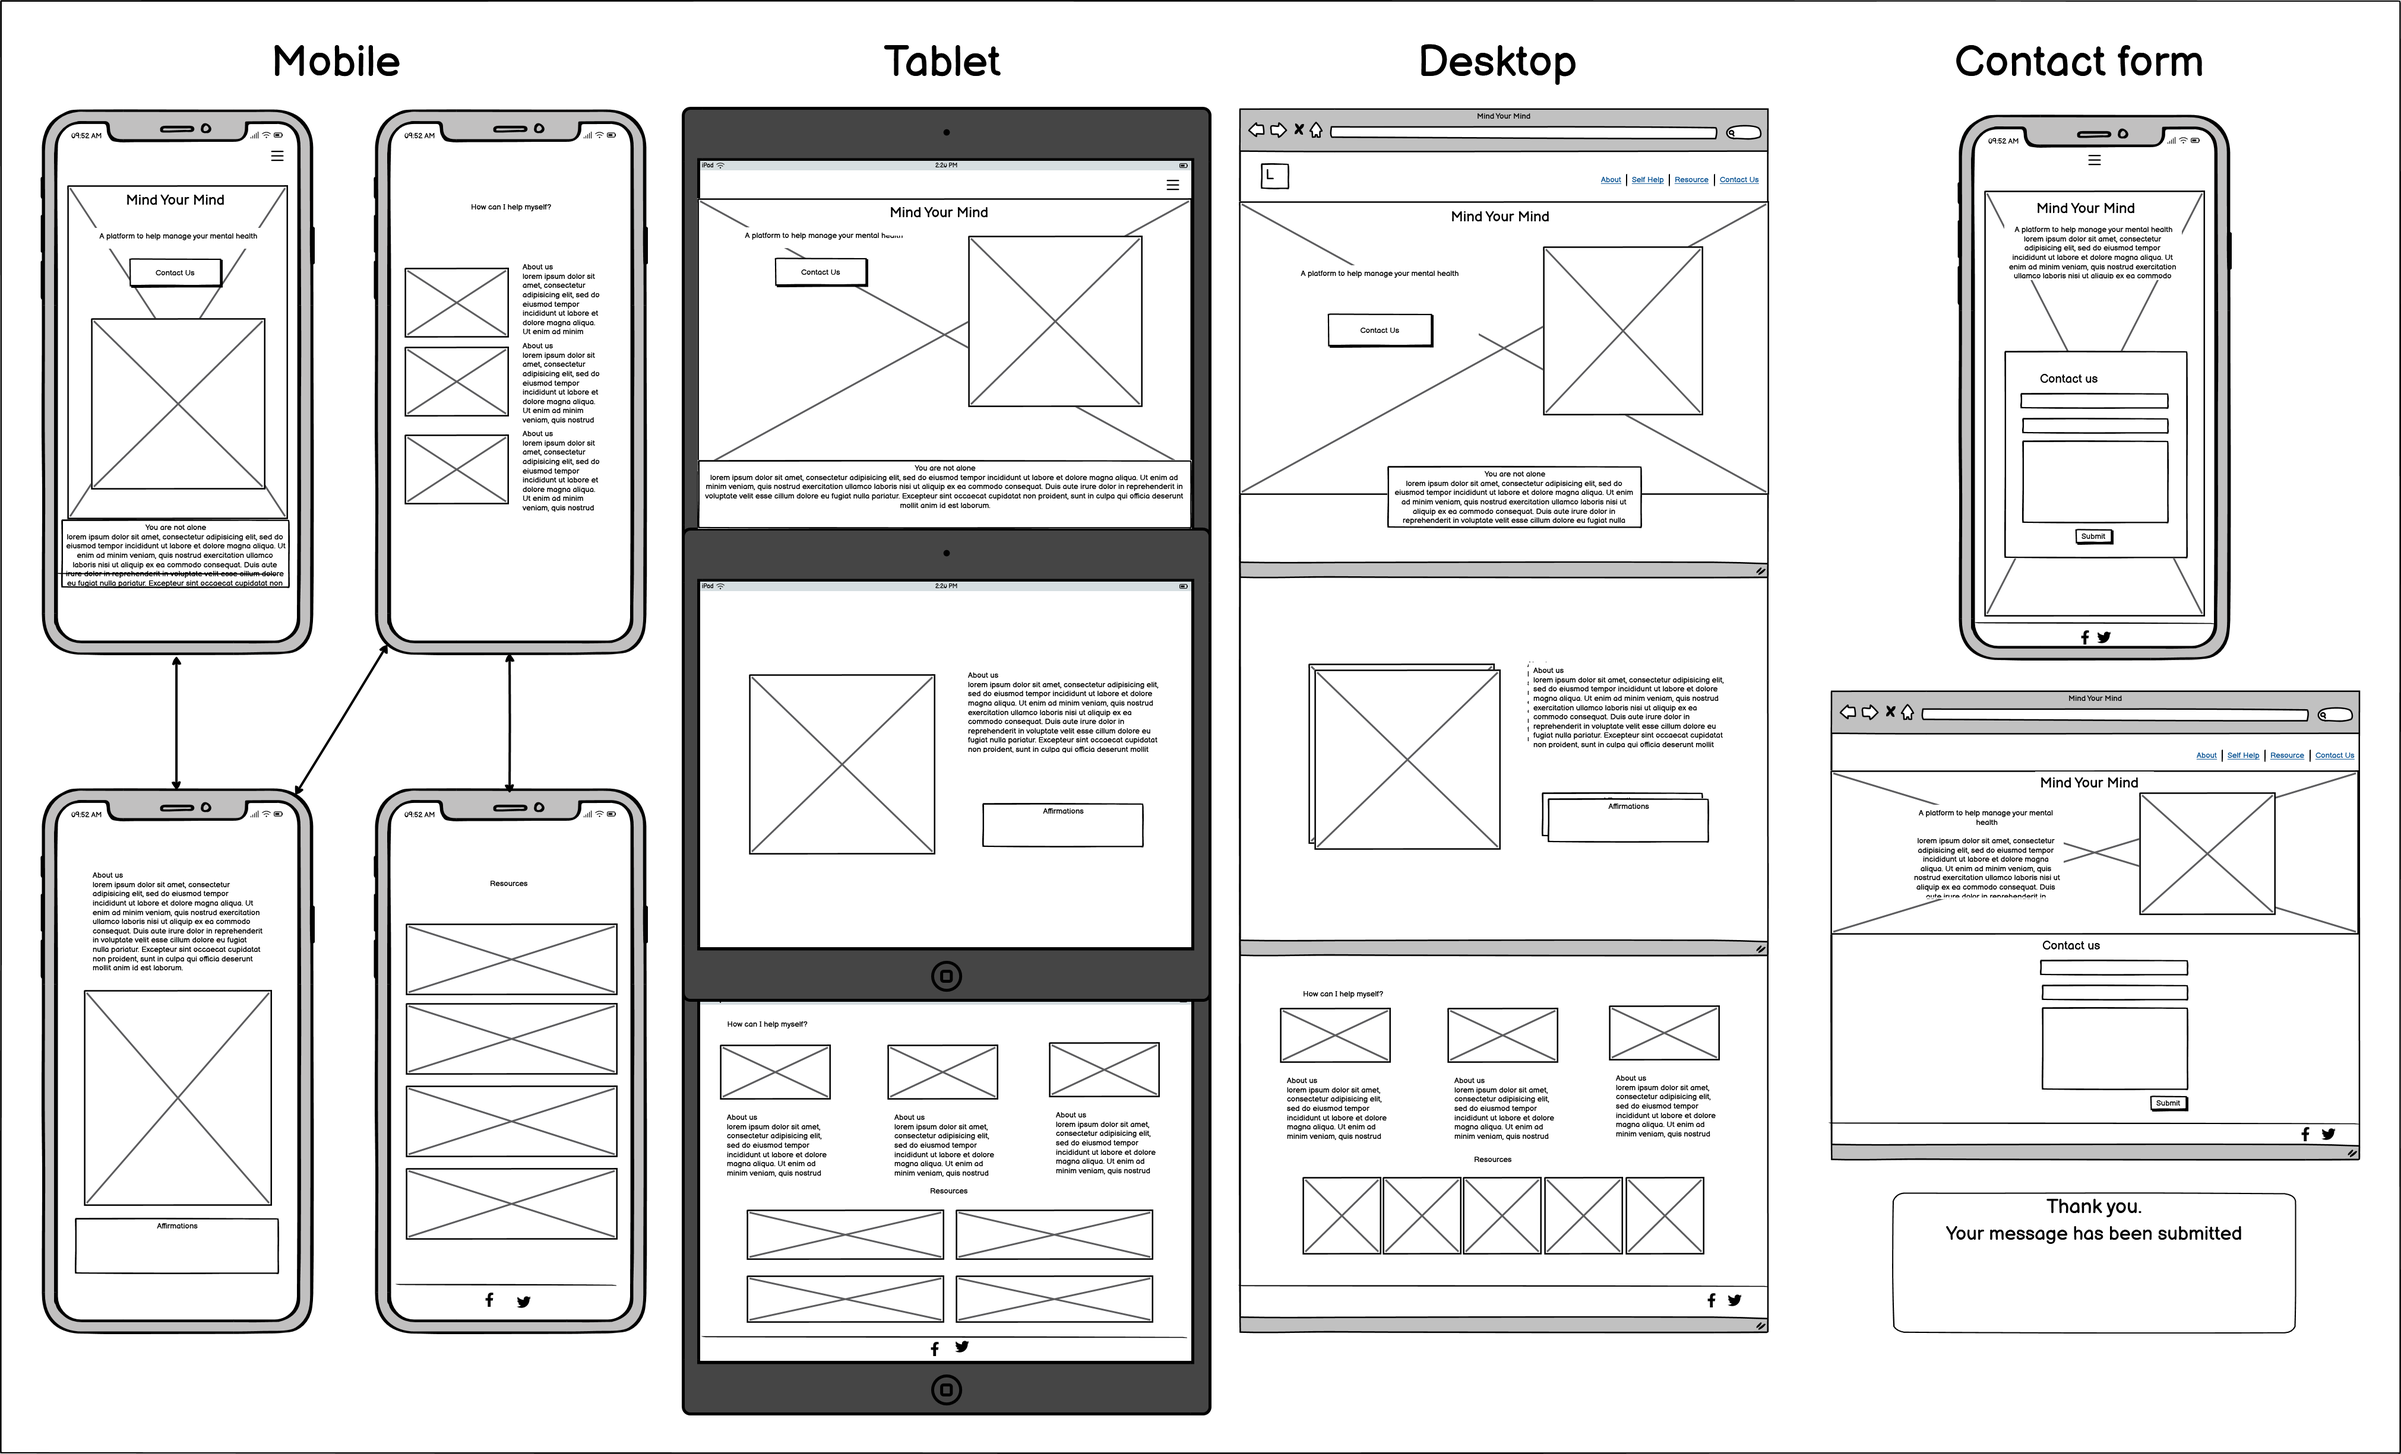
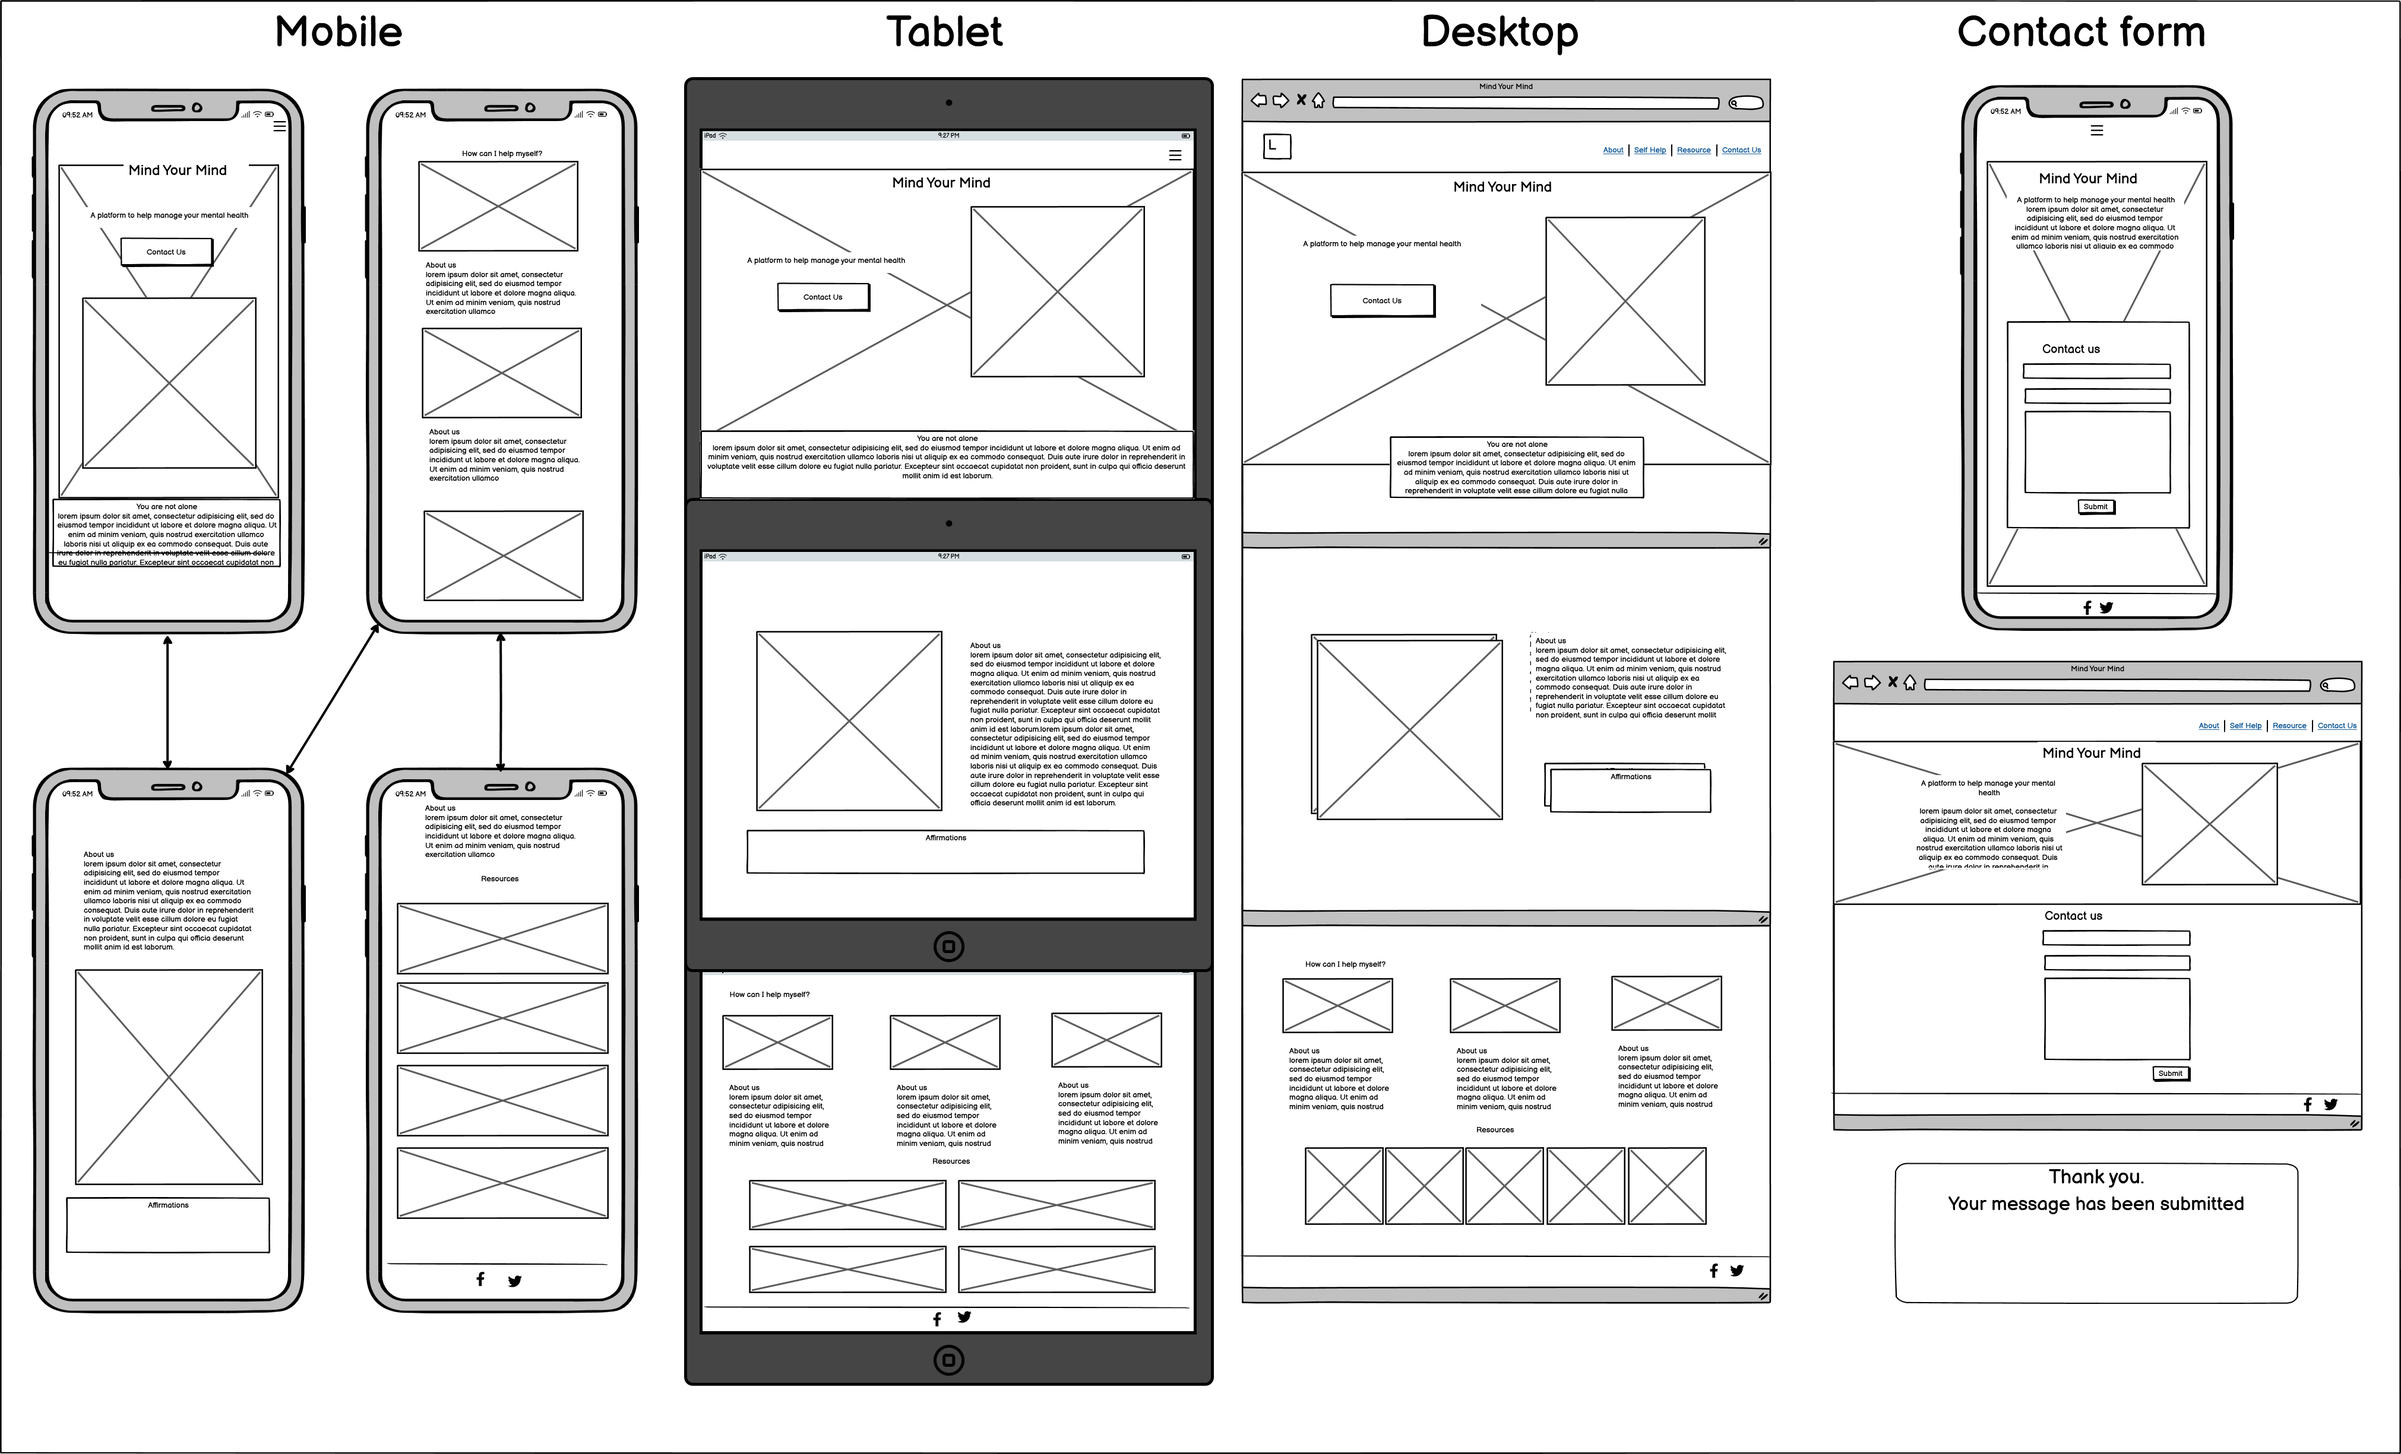
Carouel added for affirmations | Bootstrap grid added for respnsive  homepage

diff --git a/index.html b/index.html
@@ -1,5 +1,6 @@
 <!DOCTYPE html>
 <html lang="en">
+
 <head>
     <meta charset="UTF-8">
     <meta name="viewport" content="width=device-width, initial-scale=1.0">
@@ -14,103 +15,200 @@
 <body>
     <!-- Page Header-->
     <!-- Main section-->
-     <div class="page-wrapper">
-    <!-- Navbar -->
-    <nav id="navbar" class="navbar navbar-expand-lg bg-body-tertiary">
-        <div class="container-fluid">
-            <a class="navbar-brand" href="#">Mind Your Mind</a>
-            <button class="navbar-toggler" type="button" data-bs-toggle="collapse" data-bs-target="#navbarNav"
-                aria-controls="navbarNav" aria-expanded="false" aria-label="Toggle navigation">
-                <span class="navbar-toggler-icon"></span>
-            </button>
-            <div class="collapse navbar-collapse" id="navbarNav">
-                <ul class="navbar-nav ms-auto">
-                    <li class="nav-item">
-                        <a class="nav-link active" aria-current="page" href="#">About</a>
-                    </li>
-                    <li class="nav-item">
-                        <a class="nav-link" href="#">Self Help</a>
-                    </li>
-                    <li class="nav-item">
-                        <a class="nav-link" href="#">Resources</a>
-                    </li>
-                    <li class="nav-item">
-                        <a class="nav-link" aria-disabled="true">Contact Us</a>
-                    </li>
-                </ul>
+    <div class="page-wrapper">
+        <!-- Navbar -->
+        <nav id="navbar" class="navbar navbar-expand-lg bg-body-tertiary">
+            <div class="container-fluid">
+                <a class="navbar-brand" href="#">Mind Your Mind</a>
+                <button class="navbar-toggler" type="button" data-bs-toggle="collapse" data-bs-target="#navbarNav"
+                    aria-controls="navbarNav" aria-expanded="false" aria-label="Toggle navigation">
+                    <span class="navbar-toggler-icon"></span>
+                </button>
+                <div class="collapse navbar-collapse" id="navbarNav">
+                    <ul class="navbar-nav ms-auto">
+                        <li class="nav-item">
+                            <a class="nav-link active" aria-current="page" href="#">About</a>
+                        </li>
+                        <li class="nav-item">
+                            <a class="nav-link" href="#">Self Help</a>
+                        </li>
+                        <li class="nav-item">
+                            <a class="nav-link" href="#">Resources</a>
+                        </li>
+                        <li class="nav-item">
+                            <a class="nav-link" aria-disabled="true">Contact Us</a>
+                        </li>
+                    </ul>
+                </div>
             </div>
-        </div>
-    </nav>
+        </nav>
 
-    <!-- Hero section -->
-    <div class="container-wrapper">
-        <div class="box1 box-width-full">
-         Logo
-        </div>
-        <div class="box2">
-            
-            <p> A platform to help you manage your mental health</p>
-            <p><button type="button" class="btn btn-primary">Contact Us</button></p>
-        </div>        
-        <div class="box1">
-            <div class ="pic-flex">
-            <div class="pic">
+        <!-- Hero section -->
+        <div class="container-wrapper">
+            <div class="box1 box-width-full">
+                Logo
             </div>
-            </div>       
-        </div>
-        <div class="box1 box-width-full">
-            <!-- Bootstrap Grid for stats -->
-            <div class="stats">
-                <div class="container text-center">
-                    <H3>YOU ARE NOT ALONE</H3>
-                    <div class="row align-items-center">
-                        <div class="col">
-                            <p> In any given week, around 1 in 6 people report experiencing a common mental health
-                                problem,
-                                such as anxiety or depression.
-                            </p>
-                        </div>
-                        <div class="col">
-                            <p>1 in 4 people will experience a mental health problem of some kind each year in England
-                            </p>
+            <div class="box2">
+
+                <p> A platform to help you manage your mental health</p>
+                <p><button type="button" class="btn btn-primary">Contact Us</button></p>
+            </div>
+            <div class="box1">
+                <div class="pic-flex">
+                    <div class="pic">
+                    </div>
+                </div>
+            </div>
+            <div class="box1 box-width-full">
+                <!-- Bootstrap Grid for stats -->
+                <div class="stats">
+                    <div class="container text-center">
+                        <H3>YOU ARE NOT ALONE</H3>
+                        <div class="row align-items-center">
+                            <div class="col">
+                                <p> In any given week, around 1 in 6 people report experiencing a common mental health
+                                    problem,
+                                    such as anxiety or depression.
+                                </p>
+                            </div>
+                            <div class="col">
+                                <p>1 in 4 people will experience a mental health problem of some kind each year in
+                                    England
+                                </p>
+                            </div>
                         </div>
                     </div>
                 </div>
             </div>
         </div>
-    </div>
 
-    <div class="section2">
-    </div>
-        <h2>About Us</h2>
-        ewewe
-    </div>
-    
-    <h2>About Mind Your Mind</h2>
-    <pre>    
 
-    
+        <!-- About us Bootstrap grid -->
+        <section>
 
- 
-    <!-- Footer -->
-</body>
-    <footer class="footer">
-   <div class="box1">2024 Mind Your Mind. All Rights Reserved.
-    </div>
+            <div class="container text-center">
+                <div class="row">
+                    <div class="col-12 col-md-6">
+                        IMAGE
+                    </div>
+                    <div class="col-12 col-md-6">
+                        <h3>About us</h3>
+                        Lorem ipsum dolor sit amet consectetur adipisicing elit. Perferendis ea velit maiores debitis,
+                        quod laudantium delectus eaque labore recusandae voluptatem odit eius, magni culpa voluptates?
+                        Impedit facere voluptas ducimus vel.
+                    </div>
+                    <div class="col-6 "></div>
+                    <div class="col-12 col-md-6 ">
+                        <!-- Bootstrap corousal -->
+                        <div id="carouselExampleAutoplaying" class="carousel slide" data-bs-ride="carousel">
+                            <div class="carousel-inner">
+                                <div class="carousel-item active">
+                                    Lorem ipsum dolor, sit amet consectetur adipisicing elit. Maiores facere at eveniet
+                                    ipsum doloremque quae sed repellat nam quos, dolores culpa, deleniti possimus
+                                    mollitia
+                                    facilis nisi? Deleniti fugiat commodi delectus?
+                                </div>
+                                <div class="carousel-item">
+                                    Lorem ipsum dolor, sit amet consectetur adipisicing elit. Similique reprehenderit,
+                                    impedit dolor ipsam modi cupiditate commodi necessitatibus labore dolorem maiores,
+                                    aperiam dolore fugiat ipsum. Neque sapiente dolorem voluptates ut impedit!
+                                </div>
+                                <div class="carousel-item">
+                                    Lorem ipsum dolor sit amet consectetur adipisicing elit. Illum, reiciendis, rem quia
+                                    laborum alias aliquam aspernatur porro nobis nam consequatur harum eum repudiandae
+                                    repellendus beatae itaque distinctio! Reprehenderit, a blanditiis?
+                                </div>
+                            </div>
+                            <button class="carousel-control-prev" type="button"
+                                data-bs-target="#carouselExampleAutoplaying" data-bs-slide="prev">
+                                <span class="carousel-control-prev-icon" aria-hidden="true"></span>
+                                <span class="visually-hidden">Previous</span>
+                            </button>
+                            <button class="carousel-control-next" type="button"
+                                data-bs-target="#carouselExampleAutoplaying" data-bs-slide="next">
+                                <span class="carousel-control-next-icon" aria-hidden="true"></span>
+                                <span class="visually-hidden">Next</span>
+                            </button>
+                        </div>
+                    </div>
 
-    <div class="box2"> 
-        
-        <i class="fa-brands fa-facebook"></i>
-        <i class="fa-brands fa-twitter"></i>
-        <i class="fa-brands fa-instagram"></i>
-    </div>
 
-    </footer>
+
+
+                </div>
+            </div>
+        </section>
+        <!-- Better Living -->
+        <section>
+            <h2>Tips for better living</h2>
+            <div class="container text-center">
+                <div class="row">
+                    <div class="col-12 col-md-6">
+                        IMAGE
+                    </div>
+                    <div class="col-12 col-md-6">
+                        ewrwerwe
+                    </div>
+                    <div class="col-12 col-md-6">
+                        IMAGE
+                    </div>
+                    <div class="col-12 col-md-6">
+                        ewrwerwe
+                    </div>
+                    <div class="col-12 col-md-6">
+                        IMAGE
+                    </div>
+                    <div class="col-12 col-md-6">
+                        ewrwerwe
+                    </div>
+                </div>
+            </div>
+
+        </section>
+
+        <section>
+            <h2>Resources</h2>
+            <div class="container text-center">
+                <div class="row">
+                    <div class="col-12 col-md-4 col-lg-3">
+                        IMAGE
+                    </div>
+                    <div class="col-12 col-md-4 col-lg-3">
+                        im
+                    </div>
+                    <div class="col-12 col-md-4 col-lg-3">
+                        IMAGE
+                    </div>
+                    <div class="col-12 col-md-4 col-lg-3">
+                        ewrwerwe
+                    </div>
+                    <div class="col-12 col-md-4 col-lg-3">
+                        IMAGE
+                    </div>
+                    <div class="col-12 col-md-4 col-lg-3">
+                        image
+                    </div>
+                </div>
+            </div>
+
+        </section>
+
+        <!-- Footer -->
+        <footer class="footer">
+            <div class="box1">2024 Mind Your Mind. All Rights Reserved.
+            </div>
+            <div class="box2">
+                <i class="fa-brands fa-facebook"></i>
+                <i class="fa-brands fa-twitter"></i>
+                <i class="fa-brands fa-instagram"></i>
+            </div>
+        </footer>
+
         <!-- Resources -->
-   <script src="https://cdn.jsdelivr.net/npm/bootstrap@5.3.3/dist/js/bootstrap.bundle.min.js"
-   integrity="sha384-YvpcrYf0tY3lHB60NNkmXc5s9fDVZLESaAA55NDzOxhy9GkcIdslK1eN7N6jIeHz"
-   crossorigin="anonymous"></script>
-<script src="https://kit.fontawesome.com/26c138a8b0.js" crossorigin="anonymous"></script>
+        <script src="https://cdn.jsdelivr.net/npm/bootstrap@5.3.3/dist/js/bootstrap.bundle.min.js"
+            integrity="sha384-YvpcrYf0tY3lHB60NNkmXc5s9fDVZLESaAA55NDzOxhy9GkcIdslK1eN7N6jIeHz"
+            crossorigin="anonymous"></script>
+        <script src="https://kit.fontawesome.com/26c138a8b0.js" crossorigin="anonymous"></script>
 </body>
 
 </html>

diff --git a/assets/css/styles.css b/assets/css/styles.css
@@ -20,15 +20,16 @@
 
 /* container for hero section */
 .container-wrapper {
-    background-image: url("assets/images/hero1.png");
-    background-color: cadetblue;
-    object-fit: cover;
-    margin-bottom: 1rem;
-    background-size: auto 100%;
+    background-image: url("/assets/images/hero1.png");
+    background-size: cover; /* Ensures the image covers the entire container */
+    background-repeat: no-repeat; /* Prevents the image from repeating */
+    background-position: center; /* Centers the image within the container */
+    width: 100%; /* Ensures the container takes the full width */
+    height: 88vh; /* Ensures the container takes the full viewport height */
     display: flex;
     flex-wrap: wrap;
     border-radius: 0 100px 0 100px;
-    overflow: none;
+    overflow: hidden;
 }
 
 /* Section for hero */
@@ -60,7 +61,7 @@
 }
 
 .pic {
-    background-image: url('assets/images/hero1.png');
+    background-image: url("/assets/images/hero1.png");
     background-size: 260px 260px;
     background-repeat: no-repeat;
     background-color: aquamarine;
